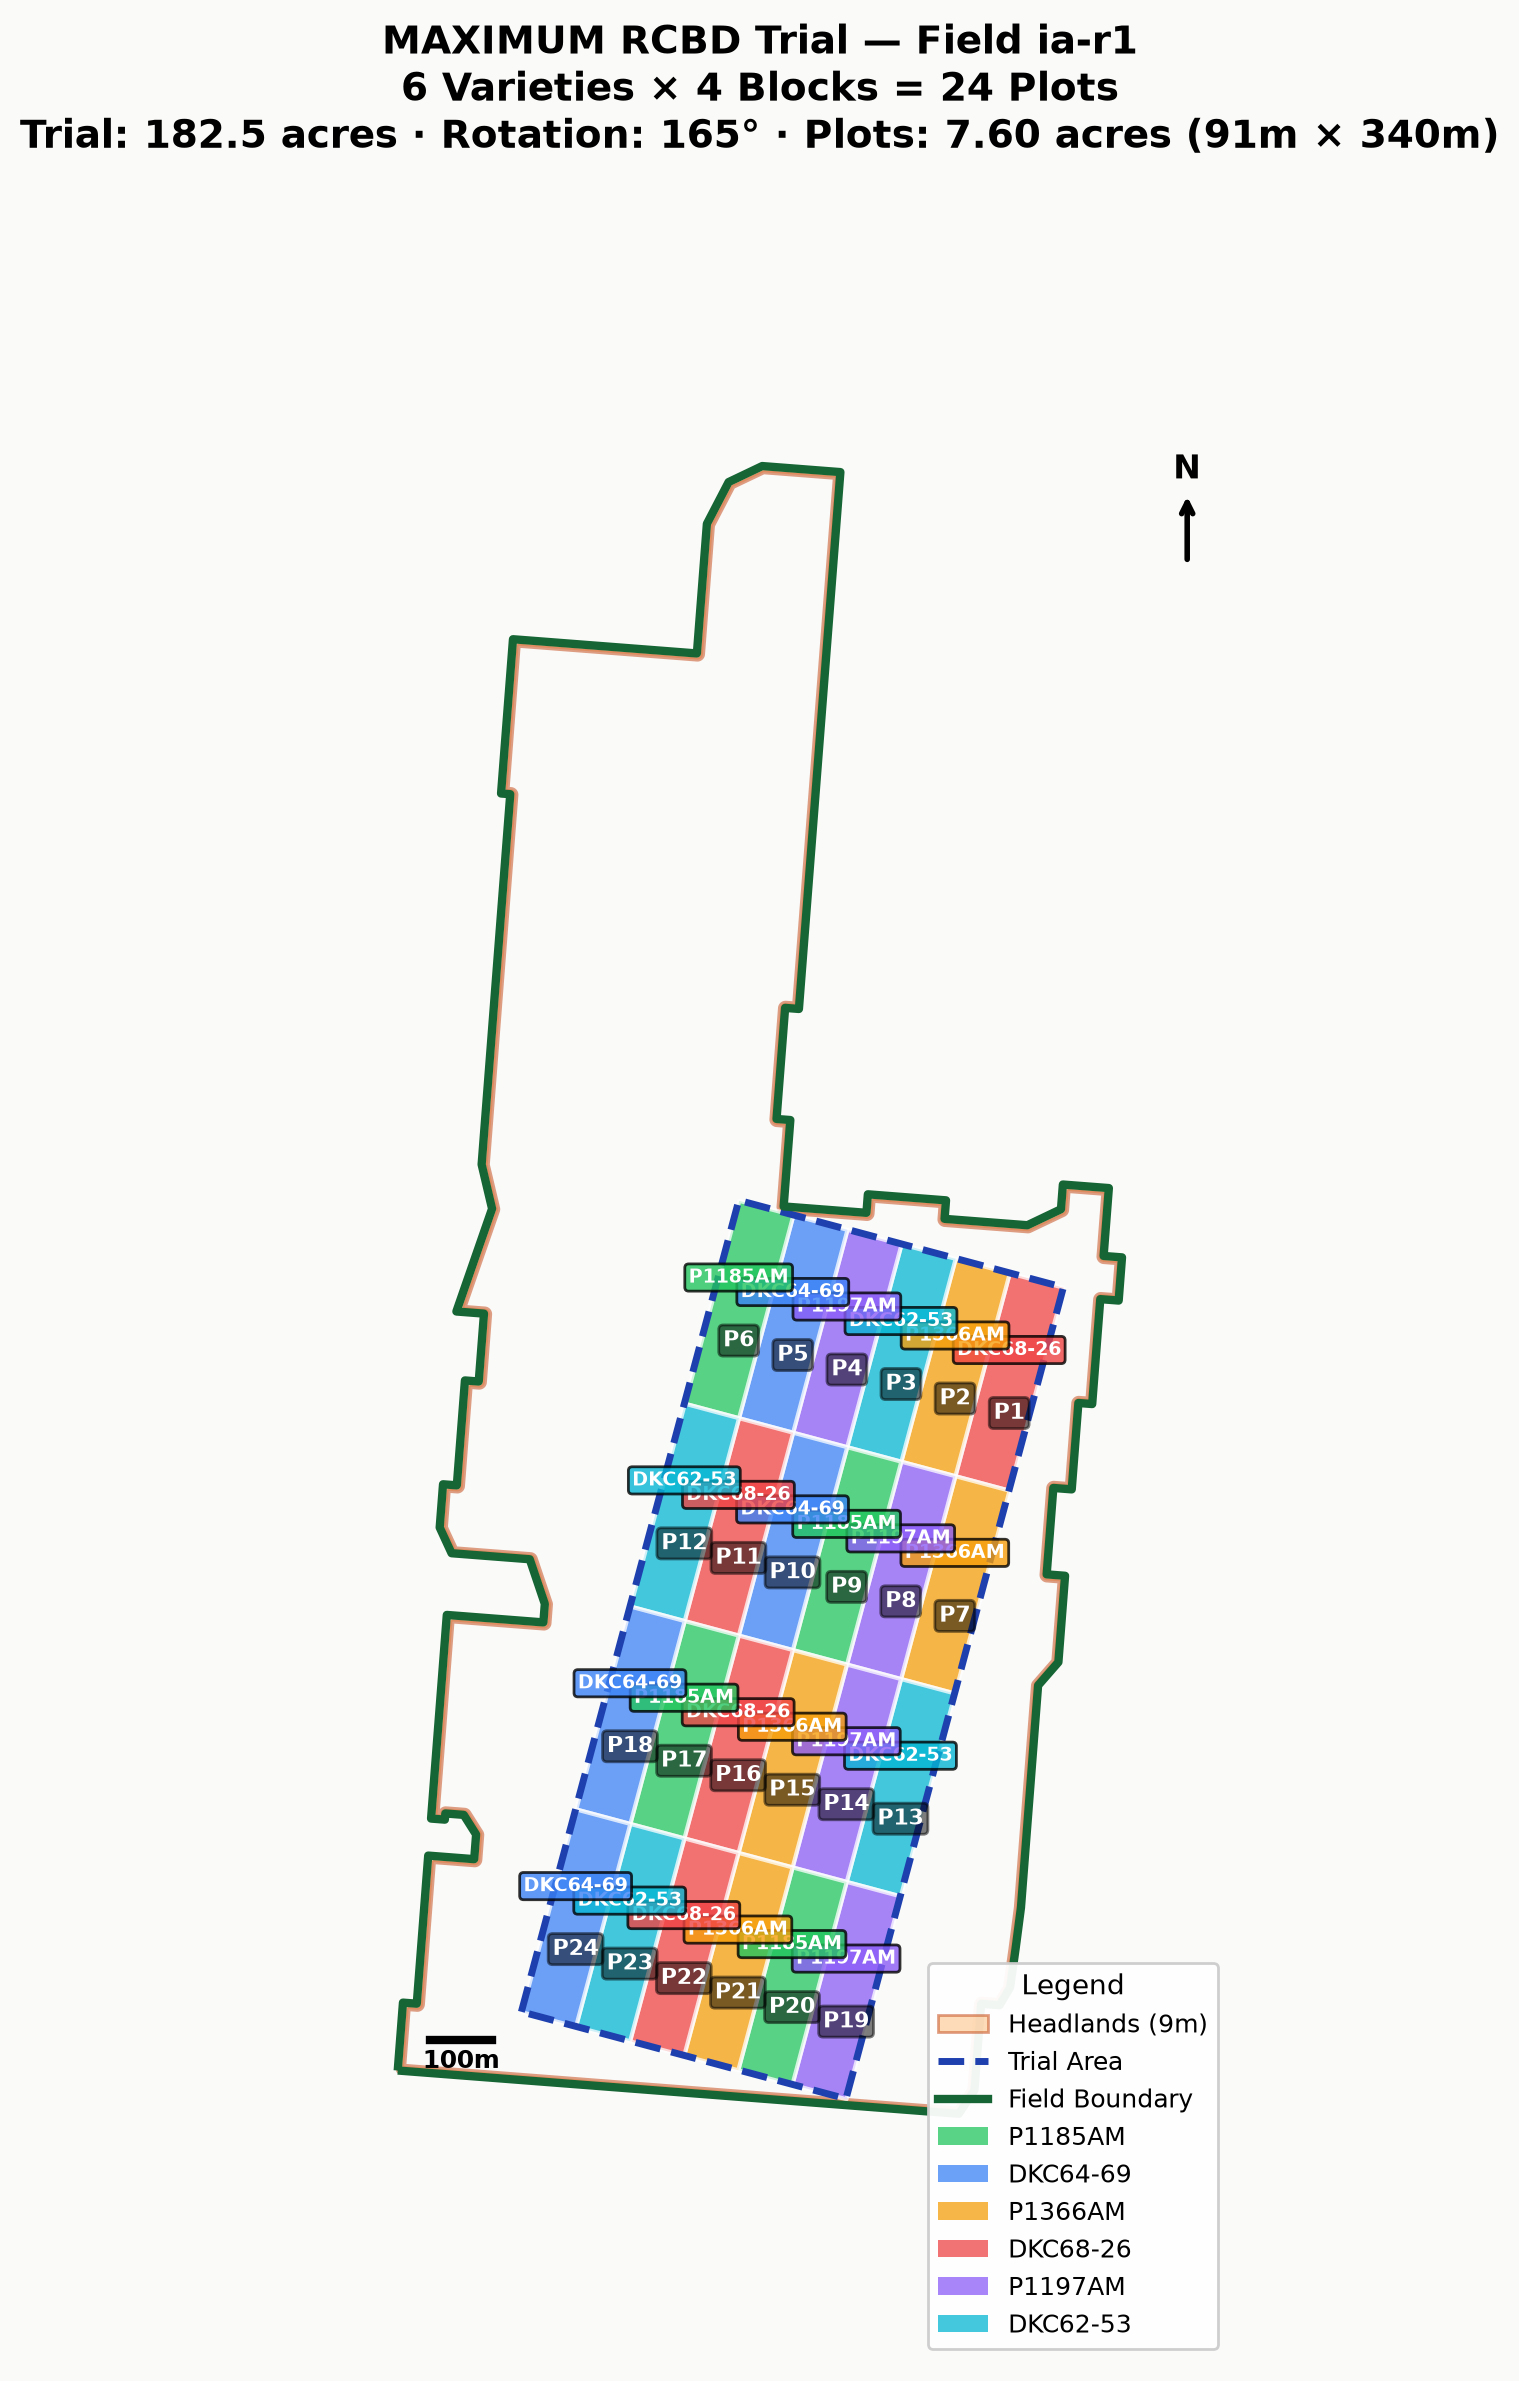
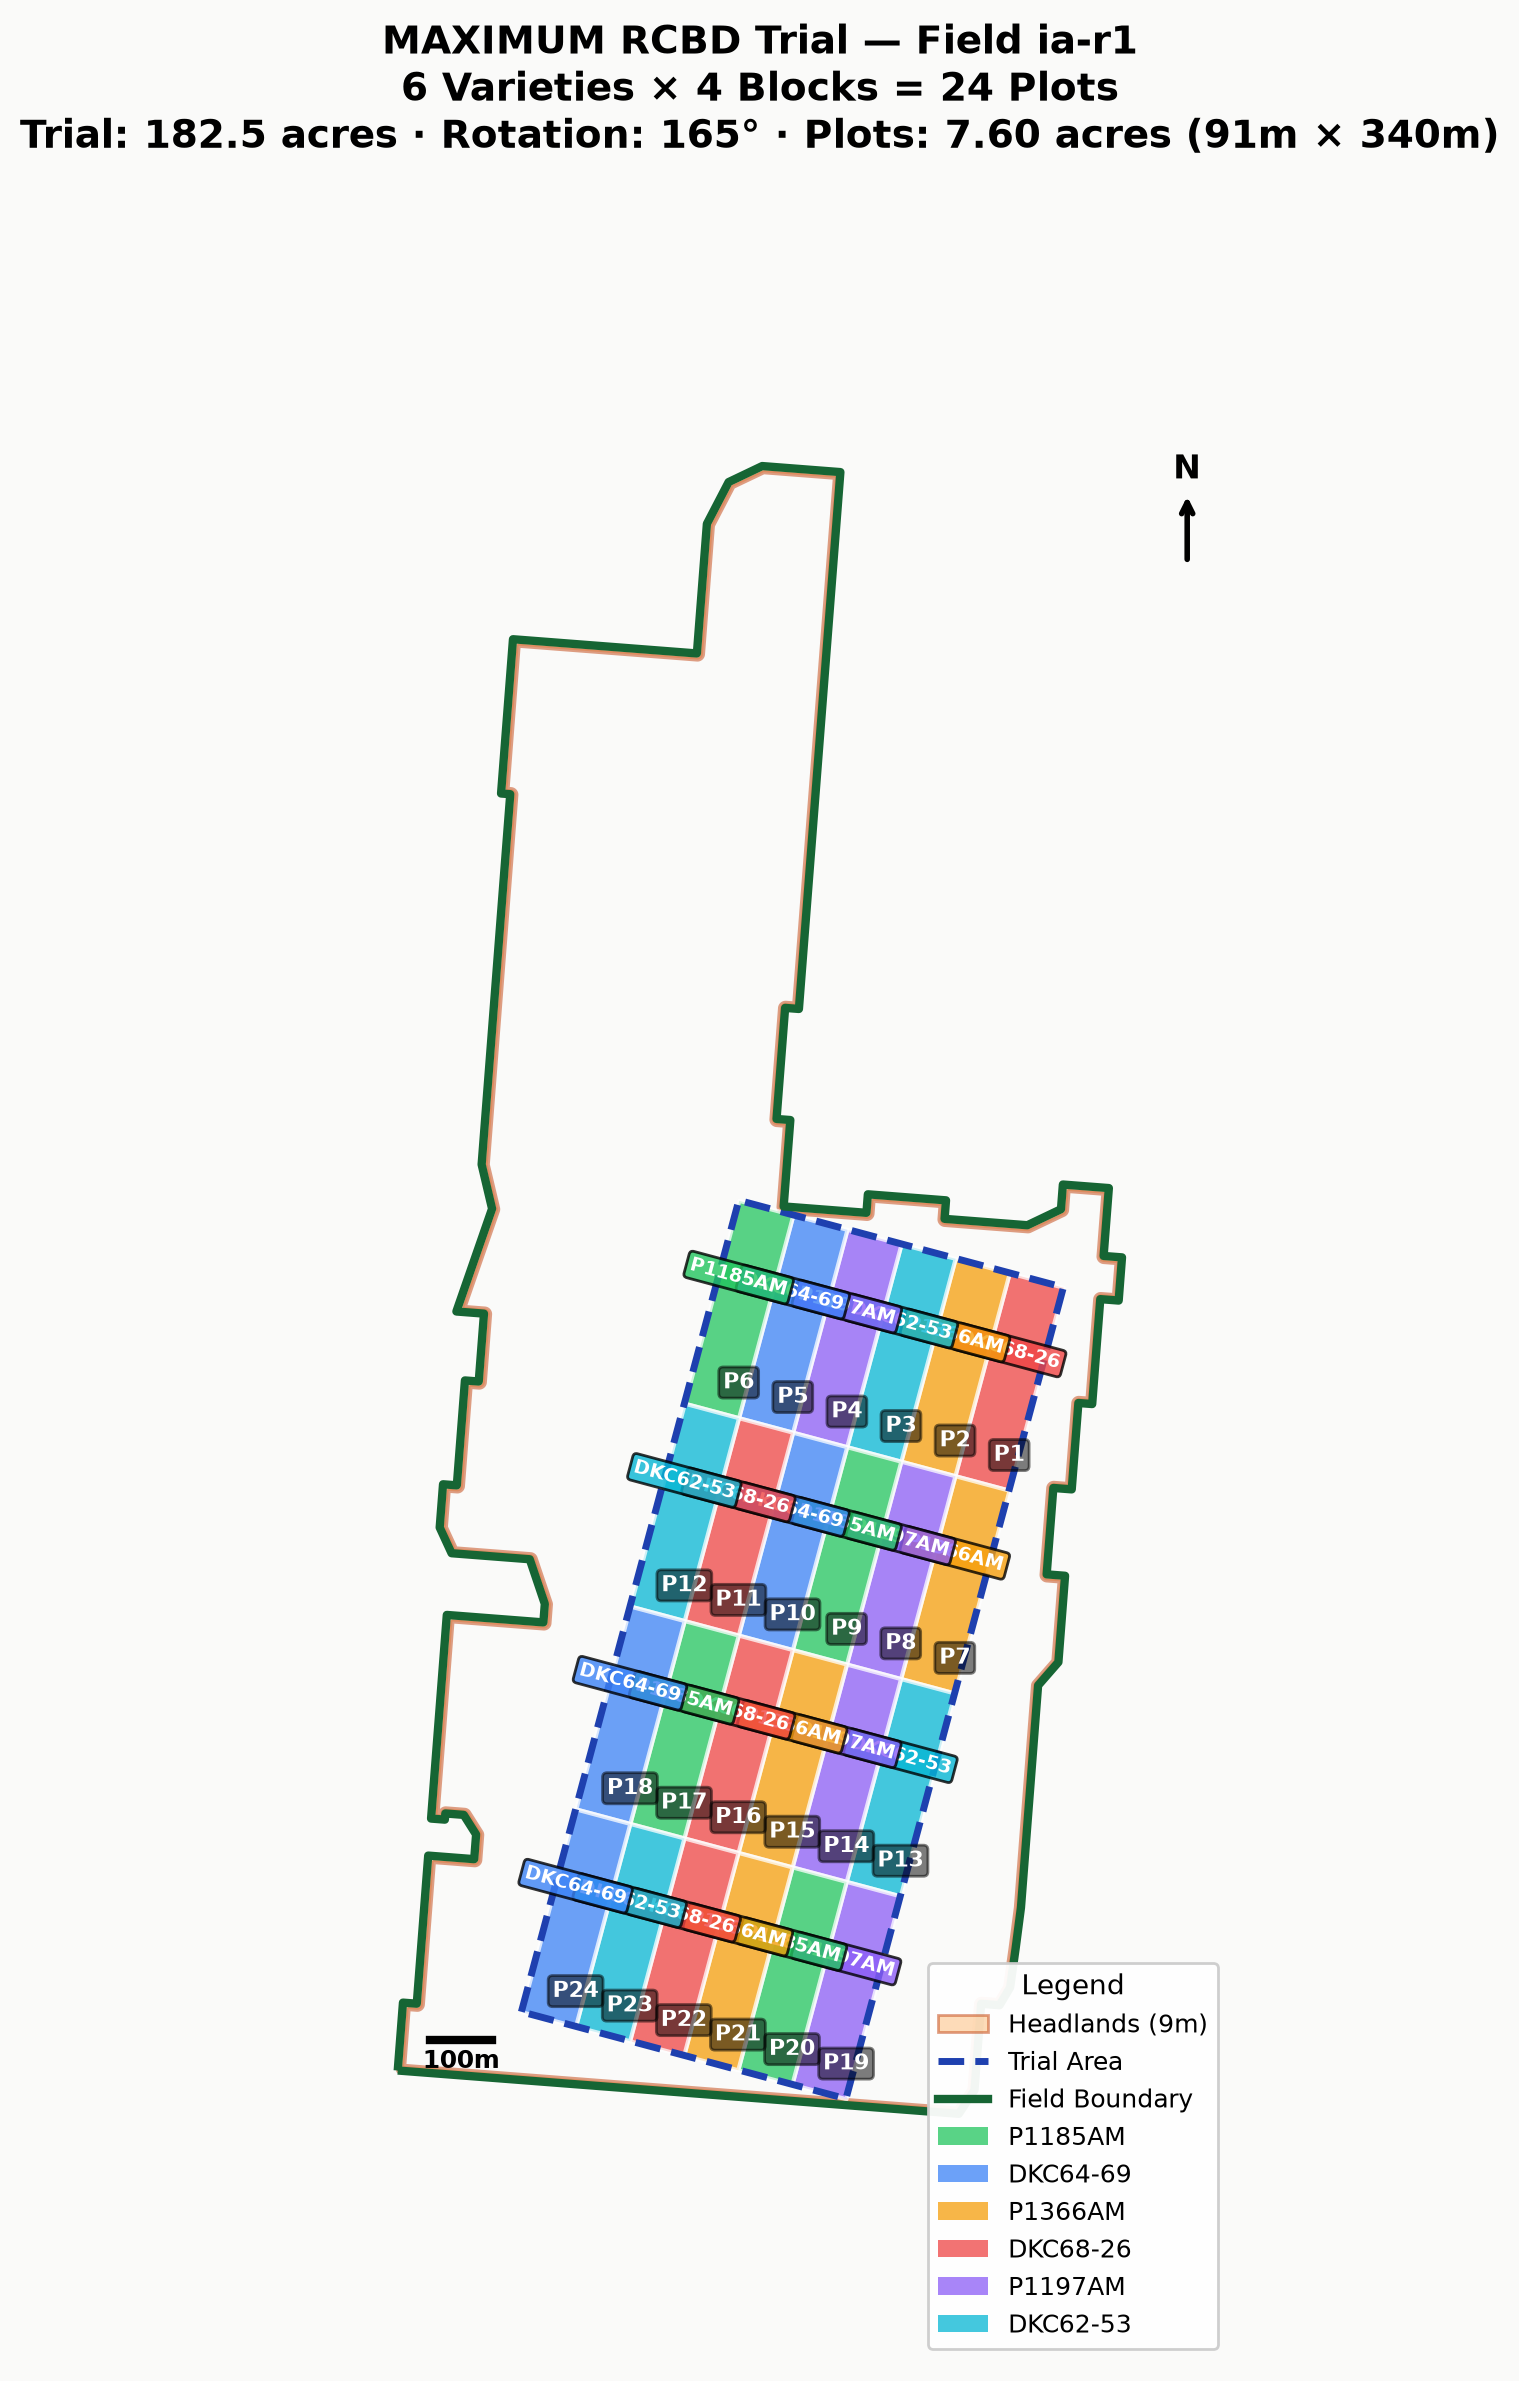
docs: doc-sync — data-pipeline example-renders section, placement example note

Changed region(s): [[0.3404, 0.5283, 0.7117, 0.8702]]

diff --git a/my-farm-breeding-trial-management/README.md b/my-farm-breeding-trial-management/README.md
@@ -117,6 +117,6 @@ This skill is the operational breeding layer. It is what you use before or along
 - Progressive router: [`INDEX.md`](INDEX.md)
 - Unified CLI: `python scripts/breeding_cli.py <design|fieldbook|germplasm|select|cross> --help`
 - Trial design examples: [`examples/design/rcbd-design/`](examples/design/rcbd-design/)
-- Field placement example: [`examples/field-trial-placement/`](examples/field-trial-placement/)
+- Field placement example (with rendered demo map): [`examples/field-trial-placement/`](examples/field-trial-placement/) — boundary-aware RCBD placement on a real Iowa field boundary; default output honors `DATA_PIPELINE_DATA_ROOT`
 - Selection and crossing examples: [`examples/select/selection-index/`](examples/select/selection-index/) and [`examples/cross/crossing-plan/`](examples/cross/crossing-plan/)
 - Simulation notes: [`examples/select/breeding-simulation-simple-cycle/README.md`](examples/select/breeding-simulation-simple-cycle/README.md)

diff --git a/my-farm-advisor/data-pipeline/README.md b/my-farm-advisor/data-pipeline/README.md
@@ -8,6 +8,14 @@ Soil provider selection by boundary `country`:
 Per-year crop rotation/crop-type sources by country (CDL, AAFC ACI, and the
 keyless WorldCereal default-model path for every other country):
 [references/crop-rotation-sources.md](references/crop-rotation-sources.md).
+## Example renders
+
+Vision-QC'd sample figures ship under [`examples/`](examples/) — one
+subfolder per output family (`field-maps/`, `soil-maps/`, `maturity/`,
+`field-poster/`, `weather-eda/`, `worldcereal/`). PNGs only; regenerated
+runtime artifacts stay outside the repo under `DATA_PIPELINE_DATA_ROOT`
+(see `ASSET_POLICY.md` at the repo root).
+
 
 ## Global parity in one paragraph
 
